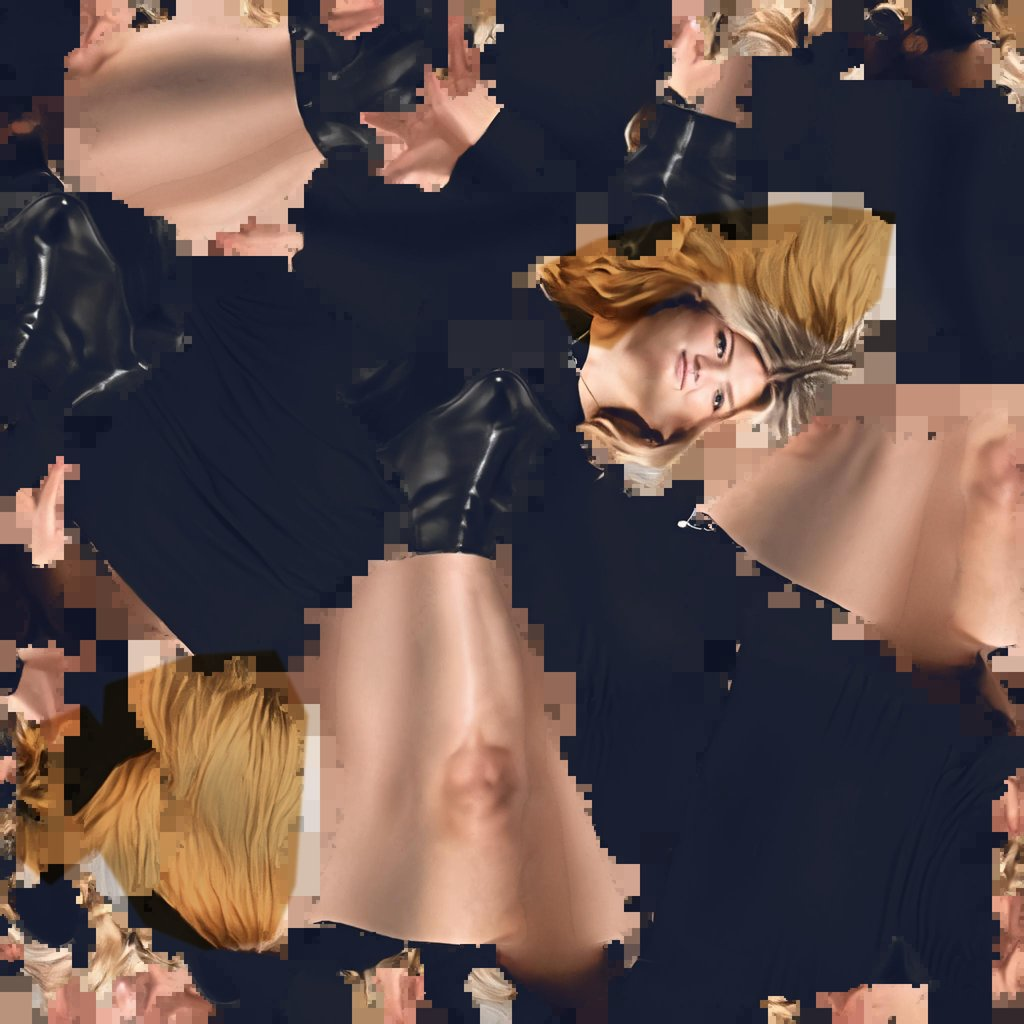
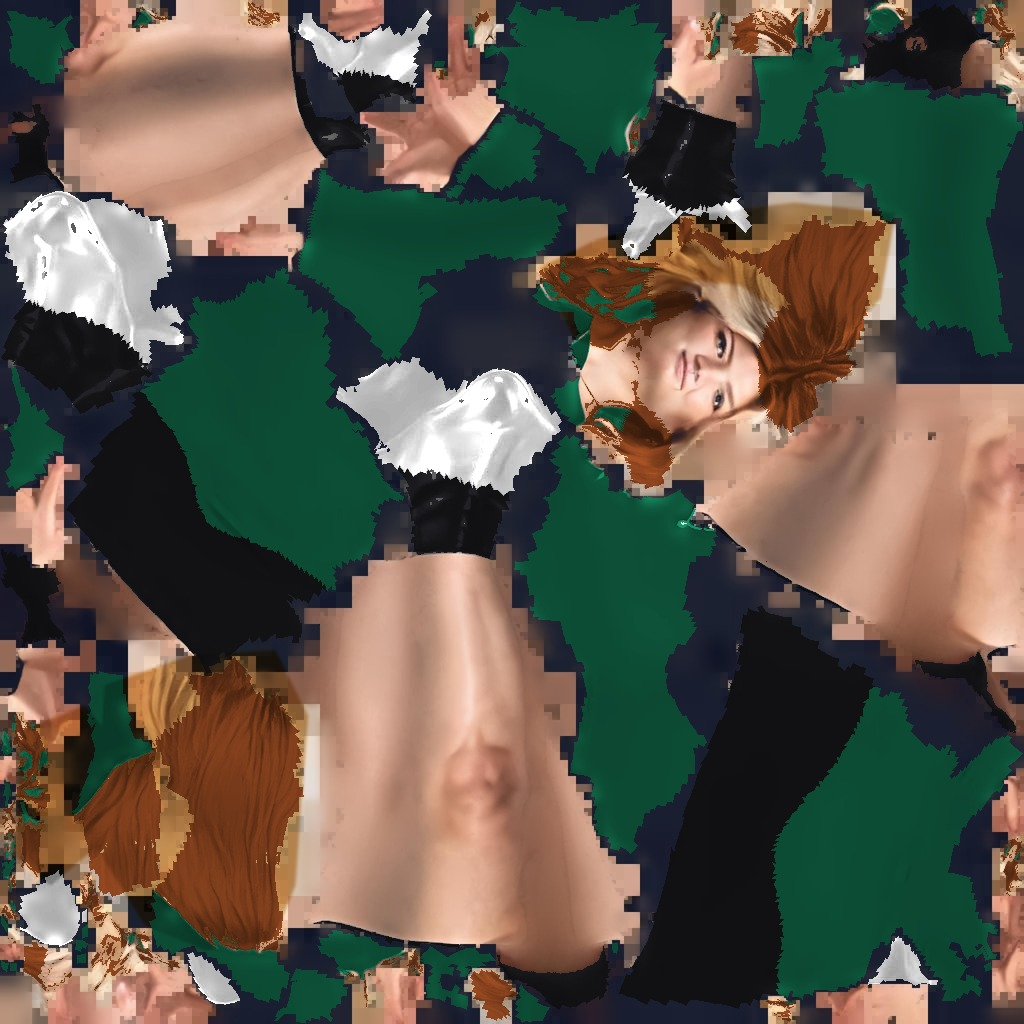
Crowd looks: natural hair colours, realistic separate tops and trousers, smoothed texture blocks

diff --git a/cloud-club/club.js b/cloud-club/club.js
@@ -1036,8 +1036,8 @@ async function loadCrowd() {
   const loader = new GLTFLoader();
   const reducedMotion = window.matchMedia('(prefers-reduced-motion: reduce)').matches;
   const [hairTextures, maleTextures, sources] = await Promise.all([
-    Promise.all(Array.from({length: 14}, (_, i) => new THREE.TextureLoader().loadAsync(`models/female_look_${i}.jpg?v=1`))),
-    Promise.all(Array.from({length: 6}, (_, i) => new THREE.TextureLoader().loadAsync(`models/male_look_${i}.jpg?v=1`))),
+    Promise.all(Array.from({length: 14}, (_, i) => new THREE.TextureLoader().loadAsync(`models/female_look_${i}.jpg?v=2`))),
+    Promise.all(Array.from({length: 6}, (_, i) => new THREE.TextureLoader().loadAsync(`models/male_look_${i}.jpg?v=2`))),
     Promise.all(['f', 'm'].map((sex) => loader.loadAsync(`models/new_crowd_${sex}.glb?v=1`))),
   ]);
   for (const texture of [...hairTextures, ...maleTextures]) { texture.flipY = false; texture.colorSpace = THREE.SRGBColorSpace; }

diff --git a/cloud-club/app.html b/cloud-club/app.html
@@ -512,7 +512,7 @@ canvas.cv { position: absolute; pointer-events: none; }
 
 <script src="app.js?v=133"></script>
 <script type="importmap">{ "imports": { "three": "https://cdn.jsdelivr.net/npm/three@0.178.0/build/three.module.js", "three/addons/": "https://cdn.jsdelivr.net/npm/three@0.178.0/examples/jsm/", "@sparkjsdev/spark": "https://cdn.jsdelivr.net/npm/@sparkjsdev/spark@0.1.10/dist/spark.module.js" } }</script>
-<script type="module" src="club.js?v=204"></script>
+<script type="module" src="club.js?v=205"></script>
 <script type="module" src="chat.js?v=124"></script>
 <script type="module" src="billing.js?v=23"></script>
 <script type="module" src="record.js?v=4"></script>

diff --git a/mixamo/base/recolor_looks.py b/mixamo/base/recolor_looks.py
@@ -1,0 +1,95 @@
+# Better hair and clothes for the crowd's look textures (female_look_*.jpg, male_look_*.jpg).
+# The looks are photo-baked UV atlases. Two things were off: the hair is blonde at the front but pale at the back (the back was filled in flat), and on the men the hair takes the
+# colour of the clothes. This script (1) recolours the head-hair islands (found from the mesh: regions_<sex>.json, written by regions.py) with a natural hair colour that is the same
+# front and back, (2) recolours the clothes with a varied palette, keeping the folds and shading of the original, and (3) smooths the flat 16-pixel blocks the photo bake left behind.
+# python3 recolor_looks.py <models dir> <regions dir> <backup dir>
+import sys, os, json, shutil
+import numpy as np
+from PIL import Image, ImageDraw, ImageFilter
+
+models, regions, backup = sys.argv[1:4]
+os.makedirs(backup, exist_ok=True)
+S = 1024
+
+def masks(sex):
+    polys = json.load(open(os.path.join(regions, f'regions_{sex}.json')))
+    out = {}
+    for k in (1, 2, 3, 4, 5, 6, 7, 8):
+        im = Image.new('L', (S, S), 0); d = ImageDraw.Draw(im)
+        for kk, pts in polys:
+            if kk == k: d.polygon([(x * S, y * S) for x, y in pts], fill=255)
+        out[k] = np.array(im) > 127
+    return out
+
+def lum(a): return 0.2126 * a[..., 0] + 0.7152 * a[..., 1] + 0.0722 * a[..., 2]
+def hsv(a):
+    mx = a.max(-1); mn = a.min(-1); d = mx - mn + 1e-6
+    r, g, b = a[..., 0], a[..., 1], a[..., 2]
+    h = np.where(mx == r, ((g - b) / d) % 6, np.where(mx == g, (b - r) / d + 2, (r - g) / d + 4)) * 60
+    return h, d / (mx + 1e-6), mx
+
+def recolour(img, mask, target, spread=1.0, floor=0.18):
+    """Give the pixels in mask the target colour, keeping the original's light and dark (folds, strands) around its own median."""
+    if mask.sum() < 50: return img
+    L = lum(img); ref = np.median(L[mask]) + 1e-3
+    r = np.clip(L / ref, 0.0, 3.0)
+    r = np.clip(0.5 + (r - 1.0) * spread * 0.55 + 0.5, floor, 1.9)
+    t = np.array(target, dtype=np.float32)
+    out = img.copy(); out[mask] = np.clip(t * r[mask, None], 0, 1)
+    return out
+
+def deblock(img):
+    """Smooth the flat 16x16 blocks (a nearest-neighbour fill in the areas the photo could not see)."""
+    h, w, _ = img.shape
+    t = 16; flat = np.zeros((h, w), bool)
+    for y in range(0, h, t):
+        for x in range(0, w, t):
+            blk = img[y:y + t, x:x + t]
+            if blk.std(axis=(0, 1)).max() < 0.012: flat[y:y + t, x:x + t] = True
+    pil = Image.fromarray((img * 255).astype(np.uint8)).filter(ImageFilter.GaussianBlur(9))
+    soft = np.array(pil).astype(np.float32) / 255
+    m = np.array(Image.fromarray((flat * 255).astype(np.uint8)).filter(ImageFilter.GaussianBlur(4))).astype(np.float32)[..., None] / 255
+    return img * (1 - m) + soft * m
+
+HAIR_F = [(0.80, 0.62, 0.34), (0.23, 0.13, 0.08), (0.06, 0.05, 0.05), (0.45, 0.22, 0.10), (0.62, 0.42, 0.22), (0.33, 0.20, 0.12), (0.72, 0.52, 0.30), (0.50, 0.14, 0.08),
+          (0.15, 0.09, 0.06), (0.86, 0.72, 0.50), (0.38, 0.26, 0.17), (0.10, 0.07, 0.06), (0.58, 0.30, 0.14), (0.70, 0.60, 0.46)]
+HAIR_M = [(0.06, 0.05, 0.05), (0.20, 0.12, 0.08), (0.34, 0.22, 0.13), (0.62, 0.46, 0.26), (0.12, 0.08, 0.06), (0.42, 0.18, 0.08)]
+# tops and bottoms are picked apart, from realistic clothing colours (a top is never the colour of the trousers)
+TOPS_F = [None, (0.42, 0.07, 0.16), (0.85, 0.85, 0.82), (0.05, 0.30, 0.21), None, (0.10, 0.10, 0.12), (0.45, 0.60, 0.72), (0.58, 0.09, 0.11), (0.62, 0.36, 0.44),
+          (0.12, 0.22, 0.45), (0.78, 0.70, 0.55), None, (0.31, 0.34, 0.16), (0.46, 0.48, 0.52)]
+BOTS_F = [(0.07, 0.07, 0.08), (0.10, 0.15, 0.30), (0.17, 0.17, 0.19), (0.07, 0.07, 0.08), (0.18, 0.26, 0.44), (0.30, 0.25, 0.18), (0.10, 0.15, 0.30), (0.07, 0.07, 0.08),
+          (0.25, 0.25, 0.28), (0.07, 0.07, 0.08), (0.14, 0.20, 0.36), (0.17, 0.12, 0.10), (0.07, 0.07, 0.08), (0.10, 0.15, 0.30)]
+TOPS_M = [(0.85, 0.85, 0.83), (0.07, 0.07, 0.08), (0.12, 0.20, 0.38), (0.30, 0.33, 0.18), (0.40, 0.08, 0.12), (0.45, 0.46, 0.48)]
+BOTS_M = [(0.10, 0.15, 0.30), (0.10, 0.15, 0.30), (0.07, 0.07, 0.08), (0.28, 0.24, 0.17), (0.17, 0.17, 0.19), (0.07, 0.07, 0.08)]
+
+for sex, n, hairs, tops, bots in (('f', 14, HAIR_F, TOPS_F, BOTS_F), ('m', 6, HAIR_M, TOPS_M, BOTS_M)):
+    M = masks(sex)
+    name = 'female' if sex == 'f' else 'male'
+    for i in range(n):
+        path = os.path.join(models, f'{name}_look_{i}.jpg')
+        keep = os.path.join(backup, f'{name}_look_{i}.jpg')
+        if not os.path.exists(keep): shutil.copy(path, keep)
+        img = np.array(Image.open(keep).convert('RGB')).astype(np.float32) / 255
+        img = deblock(img)
+        # skin reference from the hands and neck
+        skinpix = img[M[3] | M[6]]; skinpix = skinpix[lum(skinpix) > 0.25]
+        skin = np.median(skinpix, axis=0) if len(skinpix) > 200 else np.array([0.75, 0.55, 0.45])
+        hue, sat, val = hsv(img)
+        dskin = np.linalg.norm(img - skin, axis=-1)
+        # skin-coloured pixels anywhere (any warm hue, not too dark): never recoloured
+        skinlike = (hue >= 0) & (hue < 52) & (sat > 0.10) & (sat < 0.85) & (val > 0.24)
+        # hair: the head islands that are not the face, plus draped strands on the shoulders and chest (saturated gold/brown, different from the skin)
+        head_hair = M[1] & ~M[2]
+        drape = M[7] & (val > 0.42) & (hue > 20) & (hue < 54) & (sat > 0.36) & (dskin > 0.10)
+        hair = head_hair | drape
+        img = recolour(img, hair, hairs[i % len(hairs)], spread=1.2, floor=0.25)
+        # clothes: body islands and shoes that are dark or not warm-coloured (dresses, tees, trousers, boots), never skin or hair
+        notskin = ~drape & ~(skinlike & (val > 0.36)) & ((val < 0.34) | (hue > 62) | (hue < 0))
+        top = (M[5] | M[7]) & ~M[3] & ~M[6] & ~M[8] & notskin
+        bot = M[8] & notskin
+        shoes = M[4] & notskin
+        if tops[i % len(tops)] is not None: img = recolour(img, top, tops[i % len(tops)], spread=1.0, floor=0.2)
+        img = recolour(img, bot, bots[i % len(bots)], spread=1.0, floor=0.2)
+        img = recolour(img, shoes, (0.09, 0.09, 0.10) if i % 3 else (0.80, 0.80, 0.80), spread=1.0, floor=0.2)
+        Image.fromarray((np.clip(img, 0, 1) * 255).astype(np.uint8)).save(path, quality=92)
+        print('done', name, i)

diff --git a/mixamo/base/regions.py b/mixamo/base/regions.py
@@ -1,0 +1,36 @@
+# Blender -b --python regions.py -- <glb> <out.json>: per-polygon region labels with their UV points
+import bpy, sys, json
+import numpy as np
+a = sys.argv[sys.argv.index('--') + 1:]
+bpy.ops.wm.read_factory_settings(use_empty=True)
+bpy.ops.import_scene.gltf(filepath=a[0])
+ob = [o for o in bpy.data.objects if o.type == 'MESH' and len(o.data.vertices) > 1000][0]
+me = ob.data
+vg = {g.index: g.name.replace('mixamorig:', '') for g in ob.vertex_groups}
+N = len(me.vertices)
+W = {n: np.zeros(N) for n in set(vg.values())}
+for v in me.vertices:
+    for g in v.groups: W[vg[g.group]][v.index] += g.weight
+P = np.array([ob.matrix_world @ v.co for v in me.vertices])
+head = (W['Head'] + W.get('HeadTop_End', 0)) > 0.5
+zs = P[head, 2]; zmin, zmax = zs.min(), zs.max(); H = zmax - zmin
+yc = P[head, 1].mean(); xw = np.abs(P[head, 0]).max()
+print('HEAD', 'z', round(float(zmin), 3), round(float(zmax), 3), 'H', round(float(H), 3), 'ycenter', round(float(yc), 3), 'halfwidth', round(float(xw), 3), 'n', int(head.sum()), 'total', N)
+hand = sum(W[k] for k in W if 'Hand' in k) > 0.5
+foot = sum(W.get(k, 0) for k in ('LeftFoot', 'RightFoot', 'LeftToeBase', 'RightToeBase')) > 0.5
+lab = np.full(N, 5, dtype=np.uint8)
+face = head & (P[:, 1] < yc - 0.005) & (P[:, 2] < zmin + 0.74 * H) & (np.abs(P[:, 0]) < 0.9 * xw)
+arms = sum(W[k] for k in W if ('Arm' in k or 'Hand' in k)) > 0.5
+upper = ~head & ~arms & (P[:, 2] > zmin - 0.40)       # 7: shoulders, chest and upper back, where long hair drapes
+lab[upper] = 7; lab[head] = 1; lab[face] = 2; lab[hand] = 3; lab[foot] = 4
+legs = sum(W.get(k, 0) for k in ('LeftUpLeg', 'RightUpLeg', 'LeftLeg', 'RightLeg')) > 0.5
+lab[legs & ~foot] = 8   # trousers or skirt
+neck = (W['Neck'] > 0.5) & ~head & (P[:, 2] > zmin - 0.10); lab[neck] = 6
+uv = me.uv_layers.active.data
+polys = []
+for poly in me.polygons:
+    ls = [int(lab[me.loops[i].vertex_index]) for i in poly.loop_indices]
+    k = max(set(ls), key=ls.count)
+    polys.append([k, [[float(uv[i].uv[0]), float(1 - uv[i].uv[1])] for i in poly.loop_indices]])
+json.dump(polys, open(a[1], 'w'))
+print('DONE', len(polys))
